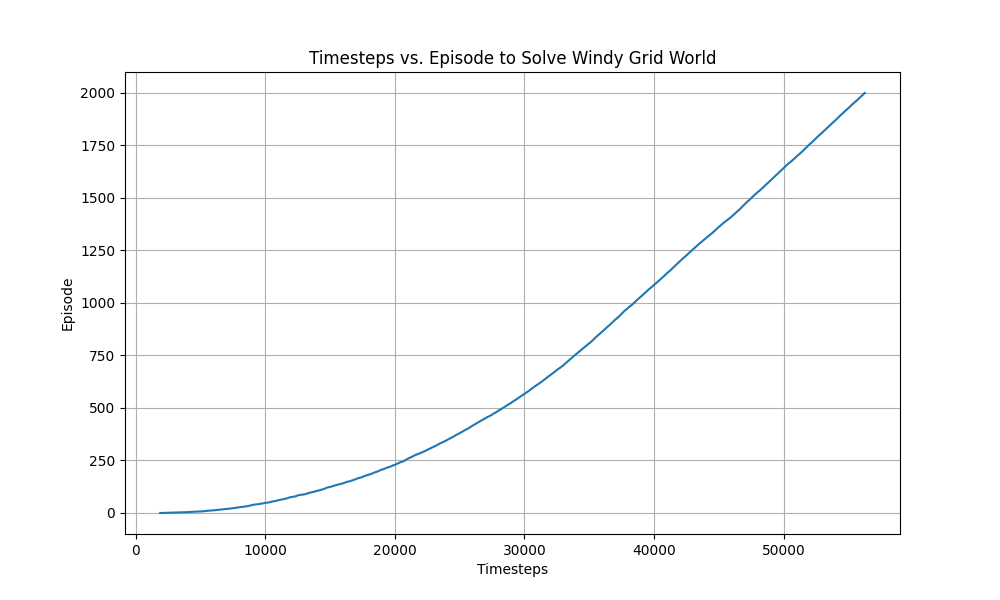
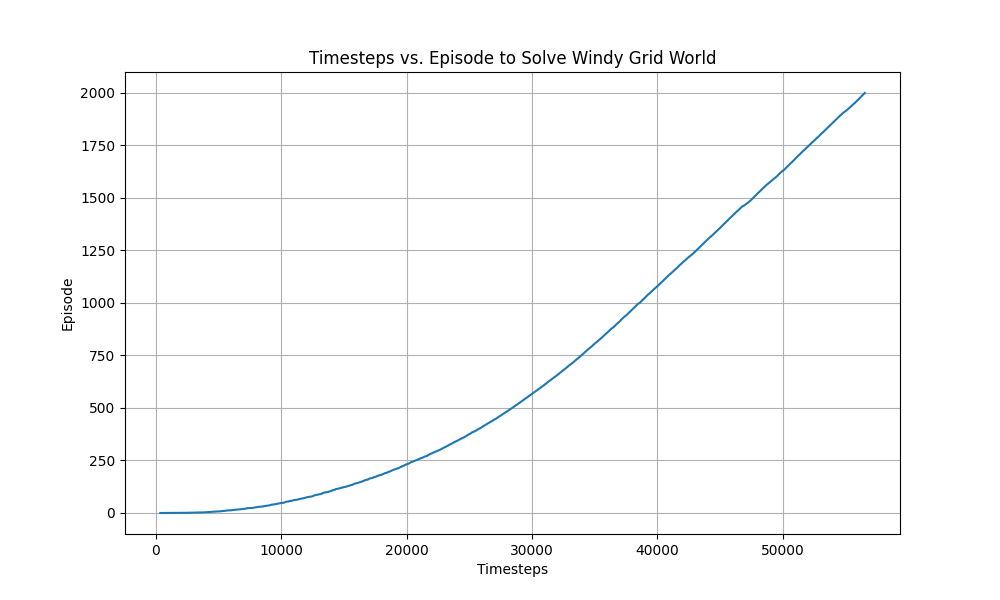
sarsa fix the action selection mistake

diff --git a/traditional_algos/td_learning/sarsa/sarsa.py b/traditional_algos/td_learning/sarsa/sarsa.py
@@ -36,19 +36,21 @@ class Sarsa:
             for _ in range(num_episode):
                 state, info = self.env.reset()
                 done = False
+                action = np.random.choice(np.arange(self.num_action), p=self.policy[state])
                 while not done:
-                    action = np.random.choice(np.arange(self.num_action), p=self.policy[state])
                     next_state, reward, terminated, truncated, info = self.env.step(action=action)
                     done = terminated or truncated
 
                     # Update Q function
-                    self.update_q_function(state, action, reward, next_state)
+                    next_action = self.update_q_function(state, action, reward, next_state)
 
                     # Update policy based on new Q values
                     self.improve_policy(state) 
 
                     # Move to the next state
                     state = next_state
+                    # Next action is selected before updating the q function
+                    action = next_action
 
                 pbar.update(1)
         
@@ -58,6 +60,8 @@ class Sarsa:
 
         td_error = reward + self.gamma * self.Q[next_state][next_action] - self.Q[state][action]
         self.Q[state][action] += self.alpha * td_error
+
+        return next_action
         
     def improve_policy(self, state):
         tolerance = 1e-8
@@ -76,9 +80,43 @@ class Sarsa:
         self.epsilon = epsilon
 
 class ExpectedSarsa(Sarsa):
+    def estimation_and_control(self, num_episode):
+        self.reset()
+        with tqdm(total=num_episode) as pbar:
+            for _ in range(num_episode):
+                state, info = self.env.reset()
+                done = False
+                while not done:
+                    action = np.random.choice(np.arange(self.num_action), p=self.policy[state])
+                    next_state, reward, terminated, truncated, info = self.env.step(action=action)
+                    done = terminated or truncated
+
+                    # Update Q function
+                    next_action = self.update_q_function(state, action, reward, next_state)
+
+                    # Update policy based on new Q values
+                    self.improve_policy(state) 
+
+                    # Move to the next state
+                    state = next_state
+                    
+                pbar.update(1)
+
     def update_q_function(self, state, action, reward, next_state):
         # Calculate the expected Q value
         expected_q = np.sum(self.policy[next_state] * self.Q[next_state])
         
         td_error = reward + self.gamma * expected_q - self.Q[state][action]
         self.Q[state][action] += self.alpha * td_error
+
+class NStepSarsa(Sarsa):
+    def __init__(self, env: gym.Env, gamma=1, epsilon=0.1, alpha=0.1, initial_policy=None, n=1) -> None:
+        super().__init__(env, gamma, epsilon, alpha, initial_policy)
+
+        self.n = n  # Back up steps
+
+    def estimation_and_control(self, num_episode):
+        assert NotImplementedError
+
+    def update_q_function(self, state, action, reward, next_state):
+        assert NotImplementedError

diff --git a/experiments/wendy_grid_world_stochastic/sarsa.py b/experiments/wendy_grid_world_stochastic/sarsa.py
@@ -20,21 +20,19 @@ class SarsaWithLogging(Sarsa):
             for _ in range(num_episode):
                 state, _ = self.env.reset()
                 done = False
-                # timesteps = 0
+                action = np.random.choice(np.arange(self.num_action), p=self.policy[state])
                 while not done:
-                    action = np.random.choice(np.arange(self.num_action), p=self.policy[state])
                     next_state, reward, terminated, truncated, info = self.env.step(action=action)
                     done = terminated or truncated
                     
                     # Update Q function
-                    next_action = np.random.choice(np.arange(self.num_action), p=self.policy[next_state])
-                    td_error = (reward + self.gamma * self.Q[next_state][next_action] - self.Q[state][action])
-                    self.Q[state][action] += self.alpha * td_error
-                    
+                    next_action = self.update_q_function(state, action, reward, next_state)
+
                     # Update policy
                     self.improve_policy(state=state)
                     
                     state = next_state
+                    action = next_action
                     timesteps += 1
 
                 episode_lengths.append(timesteps)
@@ -42,6 +40,7 @@ class SarsaWithLogging(Sarsa):
                 pbar.update(1)
 
         return episode_lengths
+
 
 if __name__ == '__main__':
     set_seed()
@@ -52,7 +51,7 @@ if __name__ == '__main__':
     agent = SarsaWithLogging(env=env)
 
     ##### 1. Use td learning's estimation and control to solve wendy grid world with stochastic wind
-    num_episode = 5_000
+    num_episode = 8_000
     agent.reset()
     episode_lengths = agent.estimation_and_control(num_episode=num_episode)
 

diff --git a/envs/grid_world/wendy_grid_world.py b/envs/grid_world/wendy_grid_world.py
@@ -141,7 +141,7 @@ class WindyGridWorldStochastic(WindyGridWorldKingsMoves):
 
         return new_x, new_y
 
-def animate_trajectory(env, trajectory, grid_size, goal_state):
+def animate_trajectory(env, trajectory, grid_size, goal_state, hold_frames=10):
     fig, ax = plt.subplots(figsize=(8, 6))
 
     # Set up grid
@@ -161,12 +161,20 @@ def animate_trajectory(env, trajectory, grid_size, goal_state):
     line, = ax.plot([], [], 'k--', lw=2)  # Path as a dashed line
     point, = ax.plot([], [], 'bo', markersize=10)  # Current position as a solid dot
 
+    # Check if the last state is the terminal state and add it if missing
+    if not env.is_goal_state(*divmod(trajectory[-1][0], env.width)):
+        final_state = env.goal_state[0] * env.width + env.goal_state[1]
+        trajectory.append((final_state, None))
+
     def init():
         line.set_data([], [])
         point.set_data([], [])
         return line, point
 
     def update(frame):
+        if frame >= len(trajectory):
+            frame = len(trajectory) - 1  # Hold at the last frame
+
         xdata, ydata = [], []
         for (state, action) in trajectory[:frame+1]:
             x, y = divmod(state, env.width)
@@ -178,7 +186,8 @@ def animate_trajectory(env, trajectory, grid_size, goal_state):
             point.set_data([xdata[-1]], [ydata[-1]])  # Wrap in list to ensure sequence
         return line, point
 
-    ani = FuncAnimation(fig, update, frames=len(trajectory), init_func=init, blit=True, interval=50, repeat=False)
+    # Create an animation with extra frames to hold the last state
+    ani = FuncAnimation(fig, update, frames=len(trajectory) + hold_frames, init_func=init, blit=True, interval=50, repeat=False)
     plt.show()
 
 if __name__ == '__main__':

diff --git a/experiments/wendy_grid_world/sarsa.py b/experiments/wendy_grid_world/sarsa.py
@@ -20,21 +20,19 @@ class SarsaWithLogging(Sarsa):
             for _ in range(num_episode):
                 state, _ = self.env.reset()
                 done = False
-                # timesteps = 0
+                action = np.random.choice(np.arange(self.num_action), p=self.policy[state])
                 while not done:
-                    action = np.random.choice(np.arange(self.num_action), p=self.policy[state])
                     next_state, reward, terminated, truncated, info = self.env.step(action=action)
                     done = terminated or truncated
                     
                     # Update Q function
-                    next_action = np.random.choice(np.arange(self.num_action), p=self.policy[next_state])
-                    td_error = (reward + self.gamma * self.Q[next_state][next_action] - self.Q[state][action])
-                    self.Q[state][action] += self.alpha * td_error
-                    
+                    next_action = self.update_q_function(state, action, reward, next_state)
+
                     # Update policy
                     self.improve_policy(state=state)
                     
                     state = next_state
+                    action = next_action
                     timesteps += 1
 
                 episode_lengths.append(timesteps)

diff --git a/experiments/wendy_grid_world_king_move/sarsa.py b/experiments/wendy_grid_world_king_move/sarsa.py
@@ -20,21 +20,19 @@ class SarsaWithLogging(Sarsa):
             for _ in range(num_episode):
                 state, _ = self.env.reset()
                 done = False
-                # timesteps = 0
+                action = np.random.choice(np.arange(self.num_action), p=self.policy[state])
                 while not done:
-                    action = np.random.choice(np.arange(self.num_action), p=self.policy[state])
                     next_state, reward, terminated, truncated, info = self.env.step(action=action)
                     done = terminated or truncated
                     
                     # Update Q function
-                    next_action = np.random.choice(np.arange(self.num_action), p=self.policy[next_state])
-                    td_error = (reward + self.gamma * self.Q[next_state][next_action] - self.Q[state][action])
-                    self.Q[state][action] += self.alpha * td_error
-                    
+                    next_action = self.update_q_function(state, action, reward, next_state)
+
                     # Update policy
                     self.improve_policy(state=state)
                     
                     state = next_state
+                    action = next_action
                     timesteps += 1
 
                 episode_lengths.append(timesteps)
